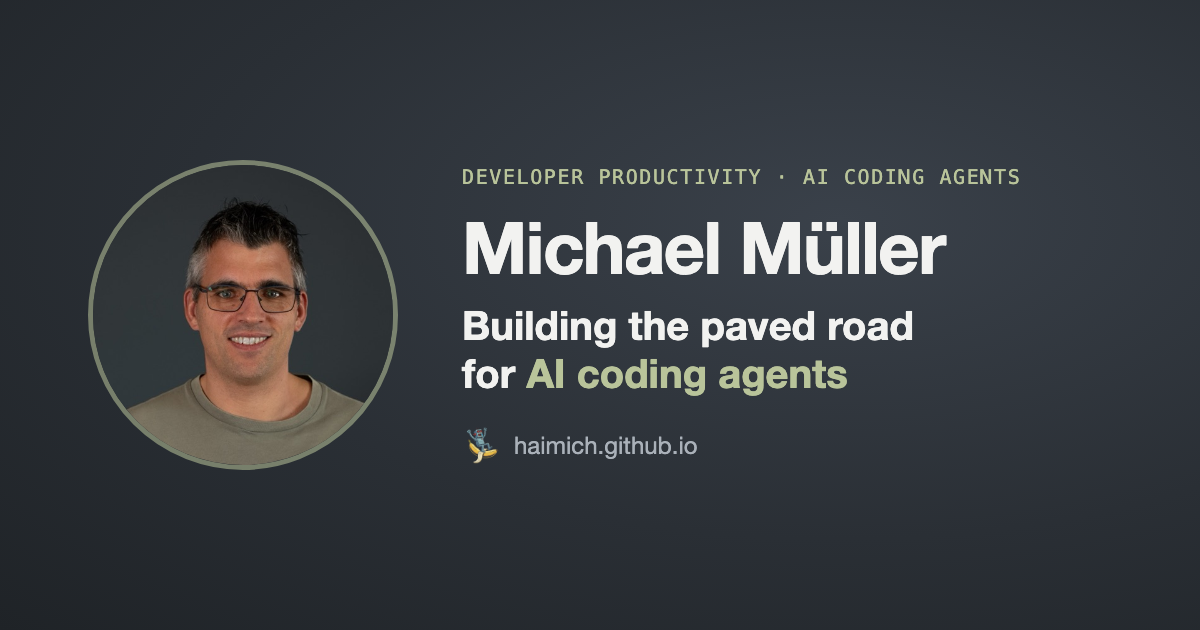
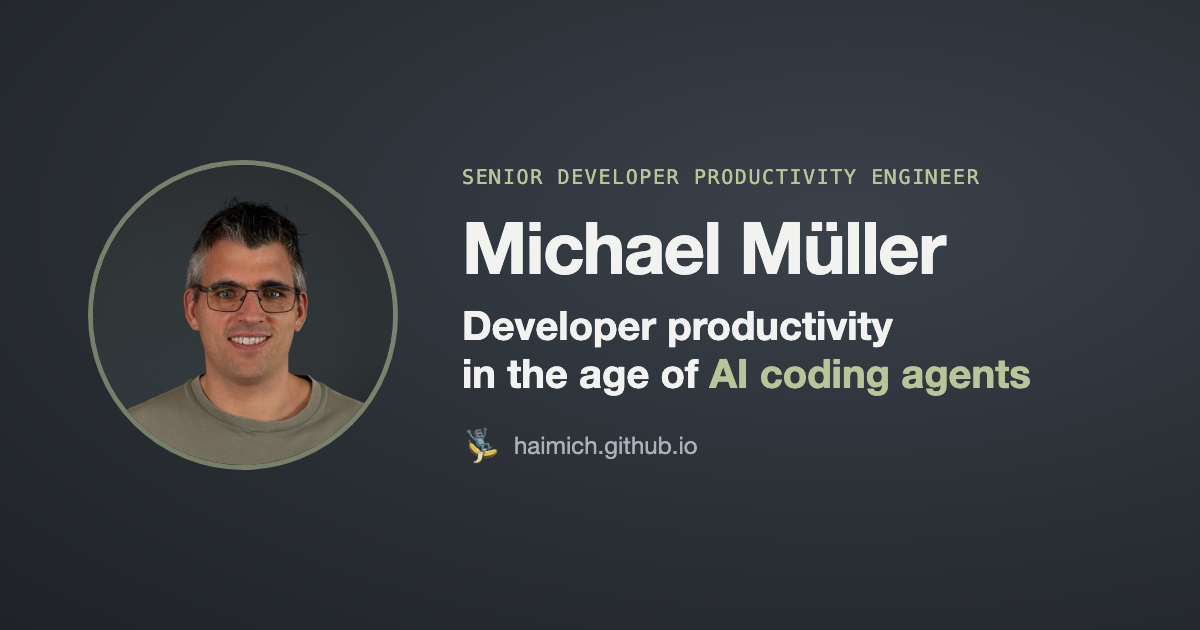
Make the site role-neutral instead of n8n-specific
Drop the n8n call-to-action from the hero, describe agents as workflow
agents, and replace the tagline with one that is not tied to a single
job posting.

Changed region(s): [[0.37, 0.4825, 0.8633, 0.6333], [0.37, 0.2714, 0.8633, 0.3016]]

diff --git a/src/data/site.ts b/src/data/site.ts
@@ -5,14 +5,13 @@ export const person = {
   name: "Michael Müller",
   role: "Senior Developer Productivity Engineer",
   company: "Leadfeeder",
-  tagline: "Building the paved road for AI coding agents",
+  tagline: "Developer productivity in the age of AI coding agents",
   summary:
-    "I make AI coding agents useful, safe and measurable for whole engineering teams: the platforms, guardrails and workflows that let agents work with developers, not beside them.",
+    "I help engineering teams get real value from AI coding agents: the platforms, guardrails and workflows that make agents useful, safe and measurable in everyday development.",
   location: "Palatinate, Germany · remote",
   links: {
     github: "https://github.com/haimich",
     linkedin: "https://www.linkedin.com/in/michael-m%C3%BCller-9a90a6284/",
-    n8nCommunity: "https://community.n8n.io/u/haimich",
   },
 };
 
@@ -43,12 +42,12 @@ export const work: CaseStudy[] = [
     title: "From error report to agent-written fix",
     problem: "New production errors piled up faster than teams could triage them, and many easy fixes never got done.",
     approach: [
-      "An n8n agent classifies each new error, scores how likely a coding agent can fix it and runs a root-cause analysis.",
+      "A workflow agent classifies each new error, scores how likely a coding agent can fix it and runs a root-cause analysis.",
       "The result lands in the team's Slack channel with a recommendation. One click creates a Linear issue and hands it to a coding agent.",
       "An auto mode starts the fix on its own, but only when the fixability score is high. Every change still goes through a PR and human review.",
     ],
     lesson: "Build the feedback loop in from day one. Without it, an agent cannot learn from wrong scores or rejected PRs.",
-    tags: ["n8n", "Coding agents", "Linear", "Human-in-the-loop"],
+    tags: ["Workflow automation", "Coding agents", "Linear", "Human-in-the-loop"],
   },
   {
     title: "A marketplace for agent plugins and skills",
@@ -70,7 +69,7 @@ export const work: CaseStudy[] = [
       "A weekly self-review checks its own routing decisions and improves which services belong to which team.",
     ],
     lesson: "Start with read-only autonomy and widen it step by step, once the data shows the agent gets it right.",
-    tags: ["n8n", "Security", "Guardrails", "Self-improving agents"],
+    tags: ["Workflow automation", "Security", "Guardrails", "Self-improving agents"],
   },
   {
     title: "A serverless framework that agents can use too",
